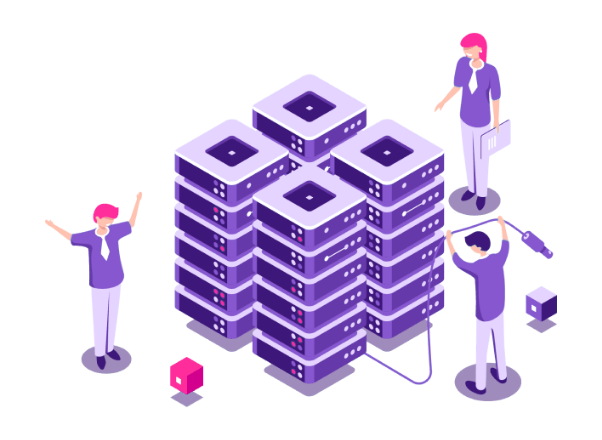
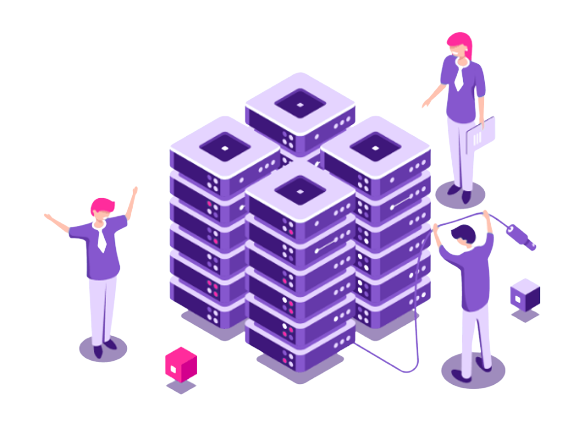
new home-page background

diff --git a/pages/index.js b/pages/index.js
@@ -8,17 +8,16 @@ import Link from 'next/link'
 
 
 const Hero = styled.div`
-  height: 82vh;
+  height: 99vh;
   display: flex;
   justify-content: center;
   align-items: center;
   padding-left: 10%;
   padding-right: 10%;
-  background-image: url("/images/home/bg-1.png");
+  background-image: url("/images/home/bg-01.png");
   background-size: cover;
   background-position: center center;
   background-repeat: no-repeat;
-  background-attachment: relative;
   
   @media (max-width: 768px) {
     padding-bottom: 100px;
@@ -28,7 +27,8 @@ const Hero = styled.div`
 const Hero2 = styled.div`
   padding-left: 10%;
   padding-right: 10%;
-  background-image: url("/images/home/bg-test.png");
+  padding-bottom: 5%;
+  background-image: url("/images/home/yellow_page.png");
   background-size: cover;
   background-position: center center;
   background-repeat: no-repeat;
@@ -36,9 +36,10 @@ const Hero2 = styled.div`
 `
 
 const Hero3 = styled.div`
+
   padding-left: 10%;
   padding-right: 10%;
-  background-image: url("/images/home/bg-last.png");
+  background-image: url("/images/home/empty_yellow_page.png");
   background-size: cover;
   background-position: center center;
   background-repeat: no-repeat;
@@ -55,7 +56,7 @@ const HeroFinal = styled.div`
   padding-left: 10%;
   padding-right: 10%;
   padding-top: 10%;
-  background-image: url("/images/home/bg-final.png");
+  background-image: url("/images/home/empty_yellow_page.png");
   background-size: cover;
   background-position: center center;
   background-repeat: no-repeat;
@@ -75,7 +76,7 @@ const CarouselHero = styled.div`
   padding-left: 0%;
   padding-right: 0%;
   padding-bottom: 5%;
-  background-image: url("/images/home/bg-carousel.png");
+  background-image: url("/images/home/empty_yellow_page.png");
   background-size: cover;
   background-position: center center;
   background-repeat: no-repeat;
